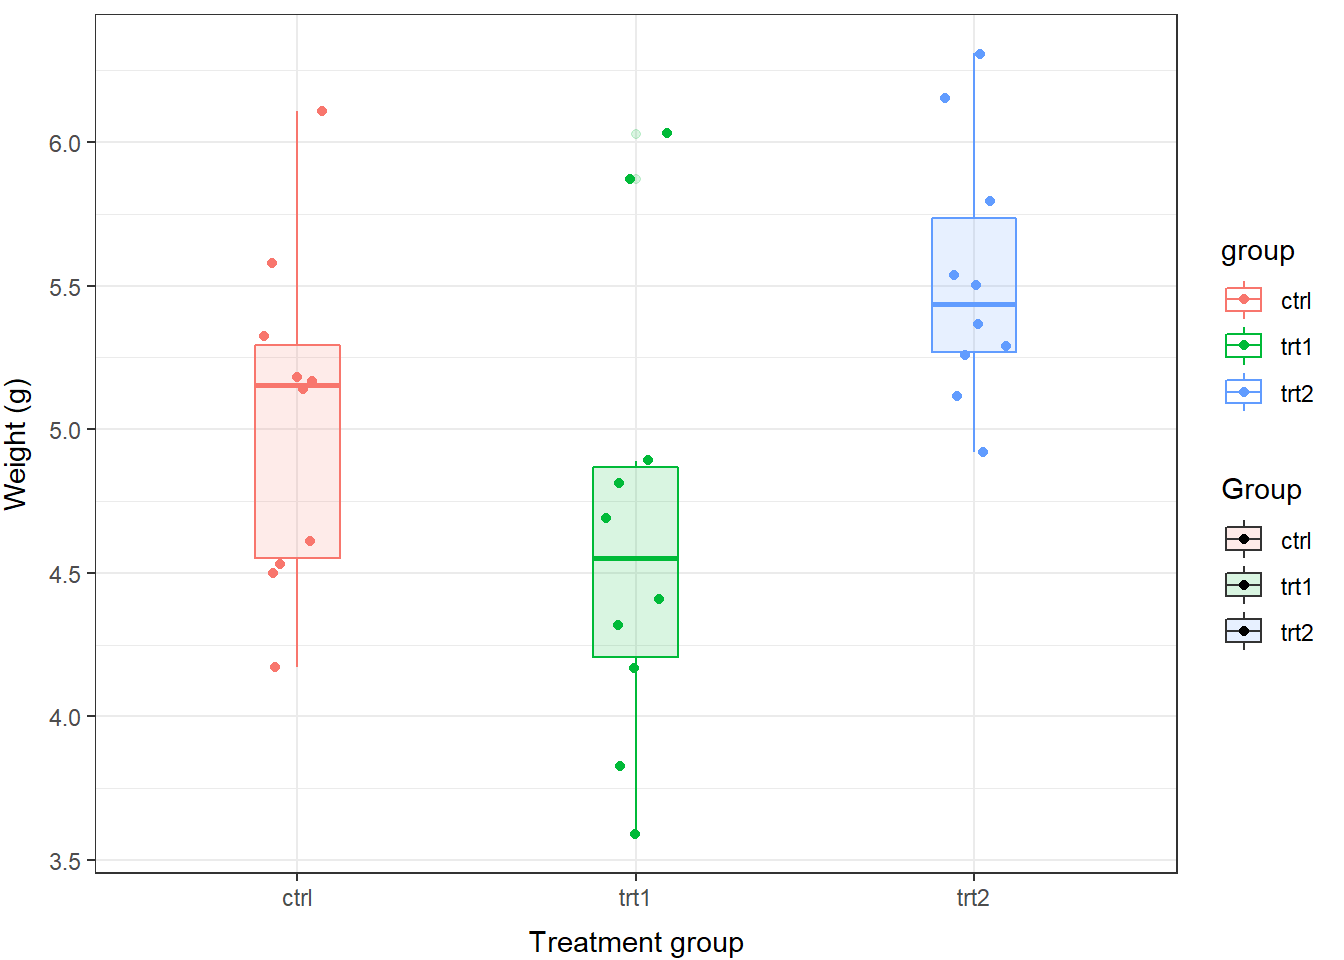
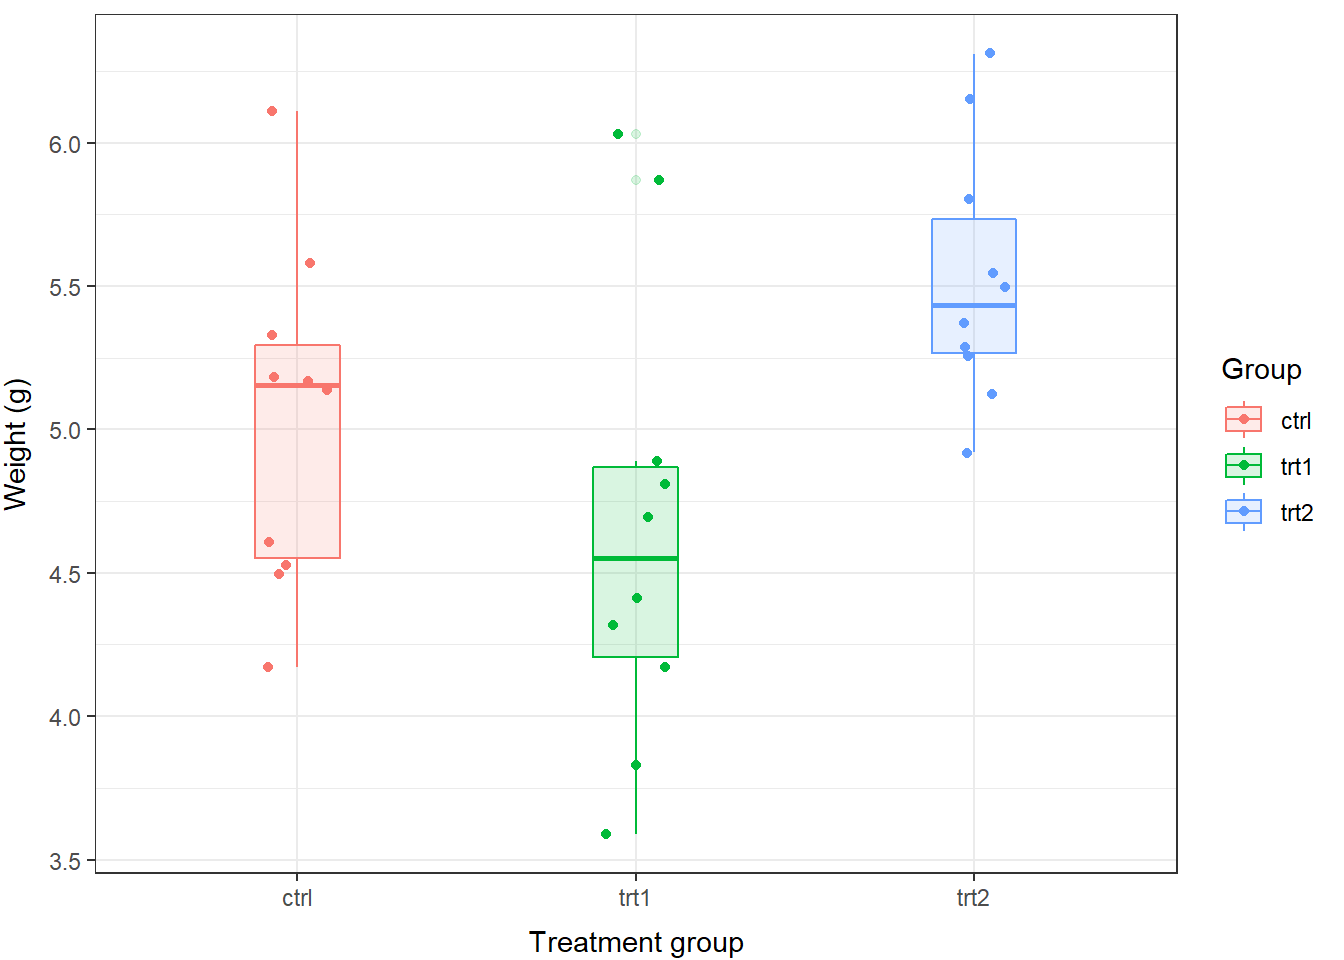
update ch 7

diff --git a/docs/7.1-anova.html b/docs/7.1-anova.html
@@ -668,7 +668,7 @@ code span.wa { color: #60a0b0; font-weight: bold; font-style: italic; } /* Warni
 <span id="cb22-4"><a href="7.1-anova.html#cb22-4" aria-hidden="true" tabindex="-1"></a>  <span class="fu">geom_jitter</span>(<span class="at">width =</span> <span class="fl">0.1</span>) <span class="sc">+</span></span>
 <span id="cb22-5"><a href="7.1-anova.html#cb22-5" aria-hidden="true" tabindex="-1"></a>  <span class="fu">xlab</span>(<span class="st">&quot;Treatment group&quot;</span>) <span class="sc">+</span></span>
 <span id="cb22-6"><a href="7.1-anova.html#cb22-6" aria-hidden="true" tabindex="-1"></a>  <span class="fu">ylab</span>(<span class="st">&quot;Weight (g)&quot;</span>) <span class="sc">+</span></span>
-<span id="cb22-7"><a href="7.1-anova.html#cb22-7" aria-hidden="true" tabindex="-1"></a>  <span class="fu">labs</span>(<span class="at">fill =</span> <span class="st">&quot;Group&quot;</span>) <span class="sc">+</span> </span>
+<span id="cb22-7"><a href="7.1-anova.html#cb22-7" aria-hidden="true" tabindex="-1"></a>  <span class="fu">labs</span>(<span class="at">fill =</span> <span class="st">&quot;Group&quot;</span>, <span class="at">color =</span> <span class="st">&quot;Group&quot;</span>) <span class="sc">+</span> </span>
 <span id="cb22-8"><a href="7.1-anova.html#cb22-8" aria-hidden="true" tabindex="-1"></a>  <span class="fu">theme_bw</span>() <span class="sc">+</span></span>
 <span id="cb22-9"><a href="7.1-anova.html#cb22-9" aria-hidden="true" tabindex="-1"></a>  <span class="fu">theme</span>(<span class="at">axis.title.x =</span> <span class="fu">element_text</span>(<span class="at">vjust=</span><span class="sc">-</span><span class="dv">1</span>),</span>
 <span id="cb22-10"><a href="7.1-anova.html#cb22-10" aria-hidden="true" tabindex="-1"></a>        <span class="at">axis.title.y =</span> <span class="fu">element_text</span>(<span class="at">vjust=</span><span class="dv">3</span>)</span>
